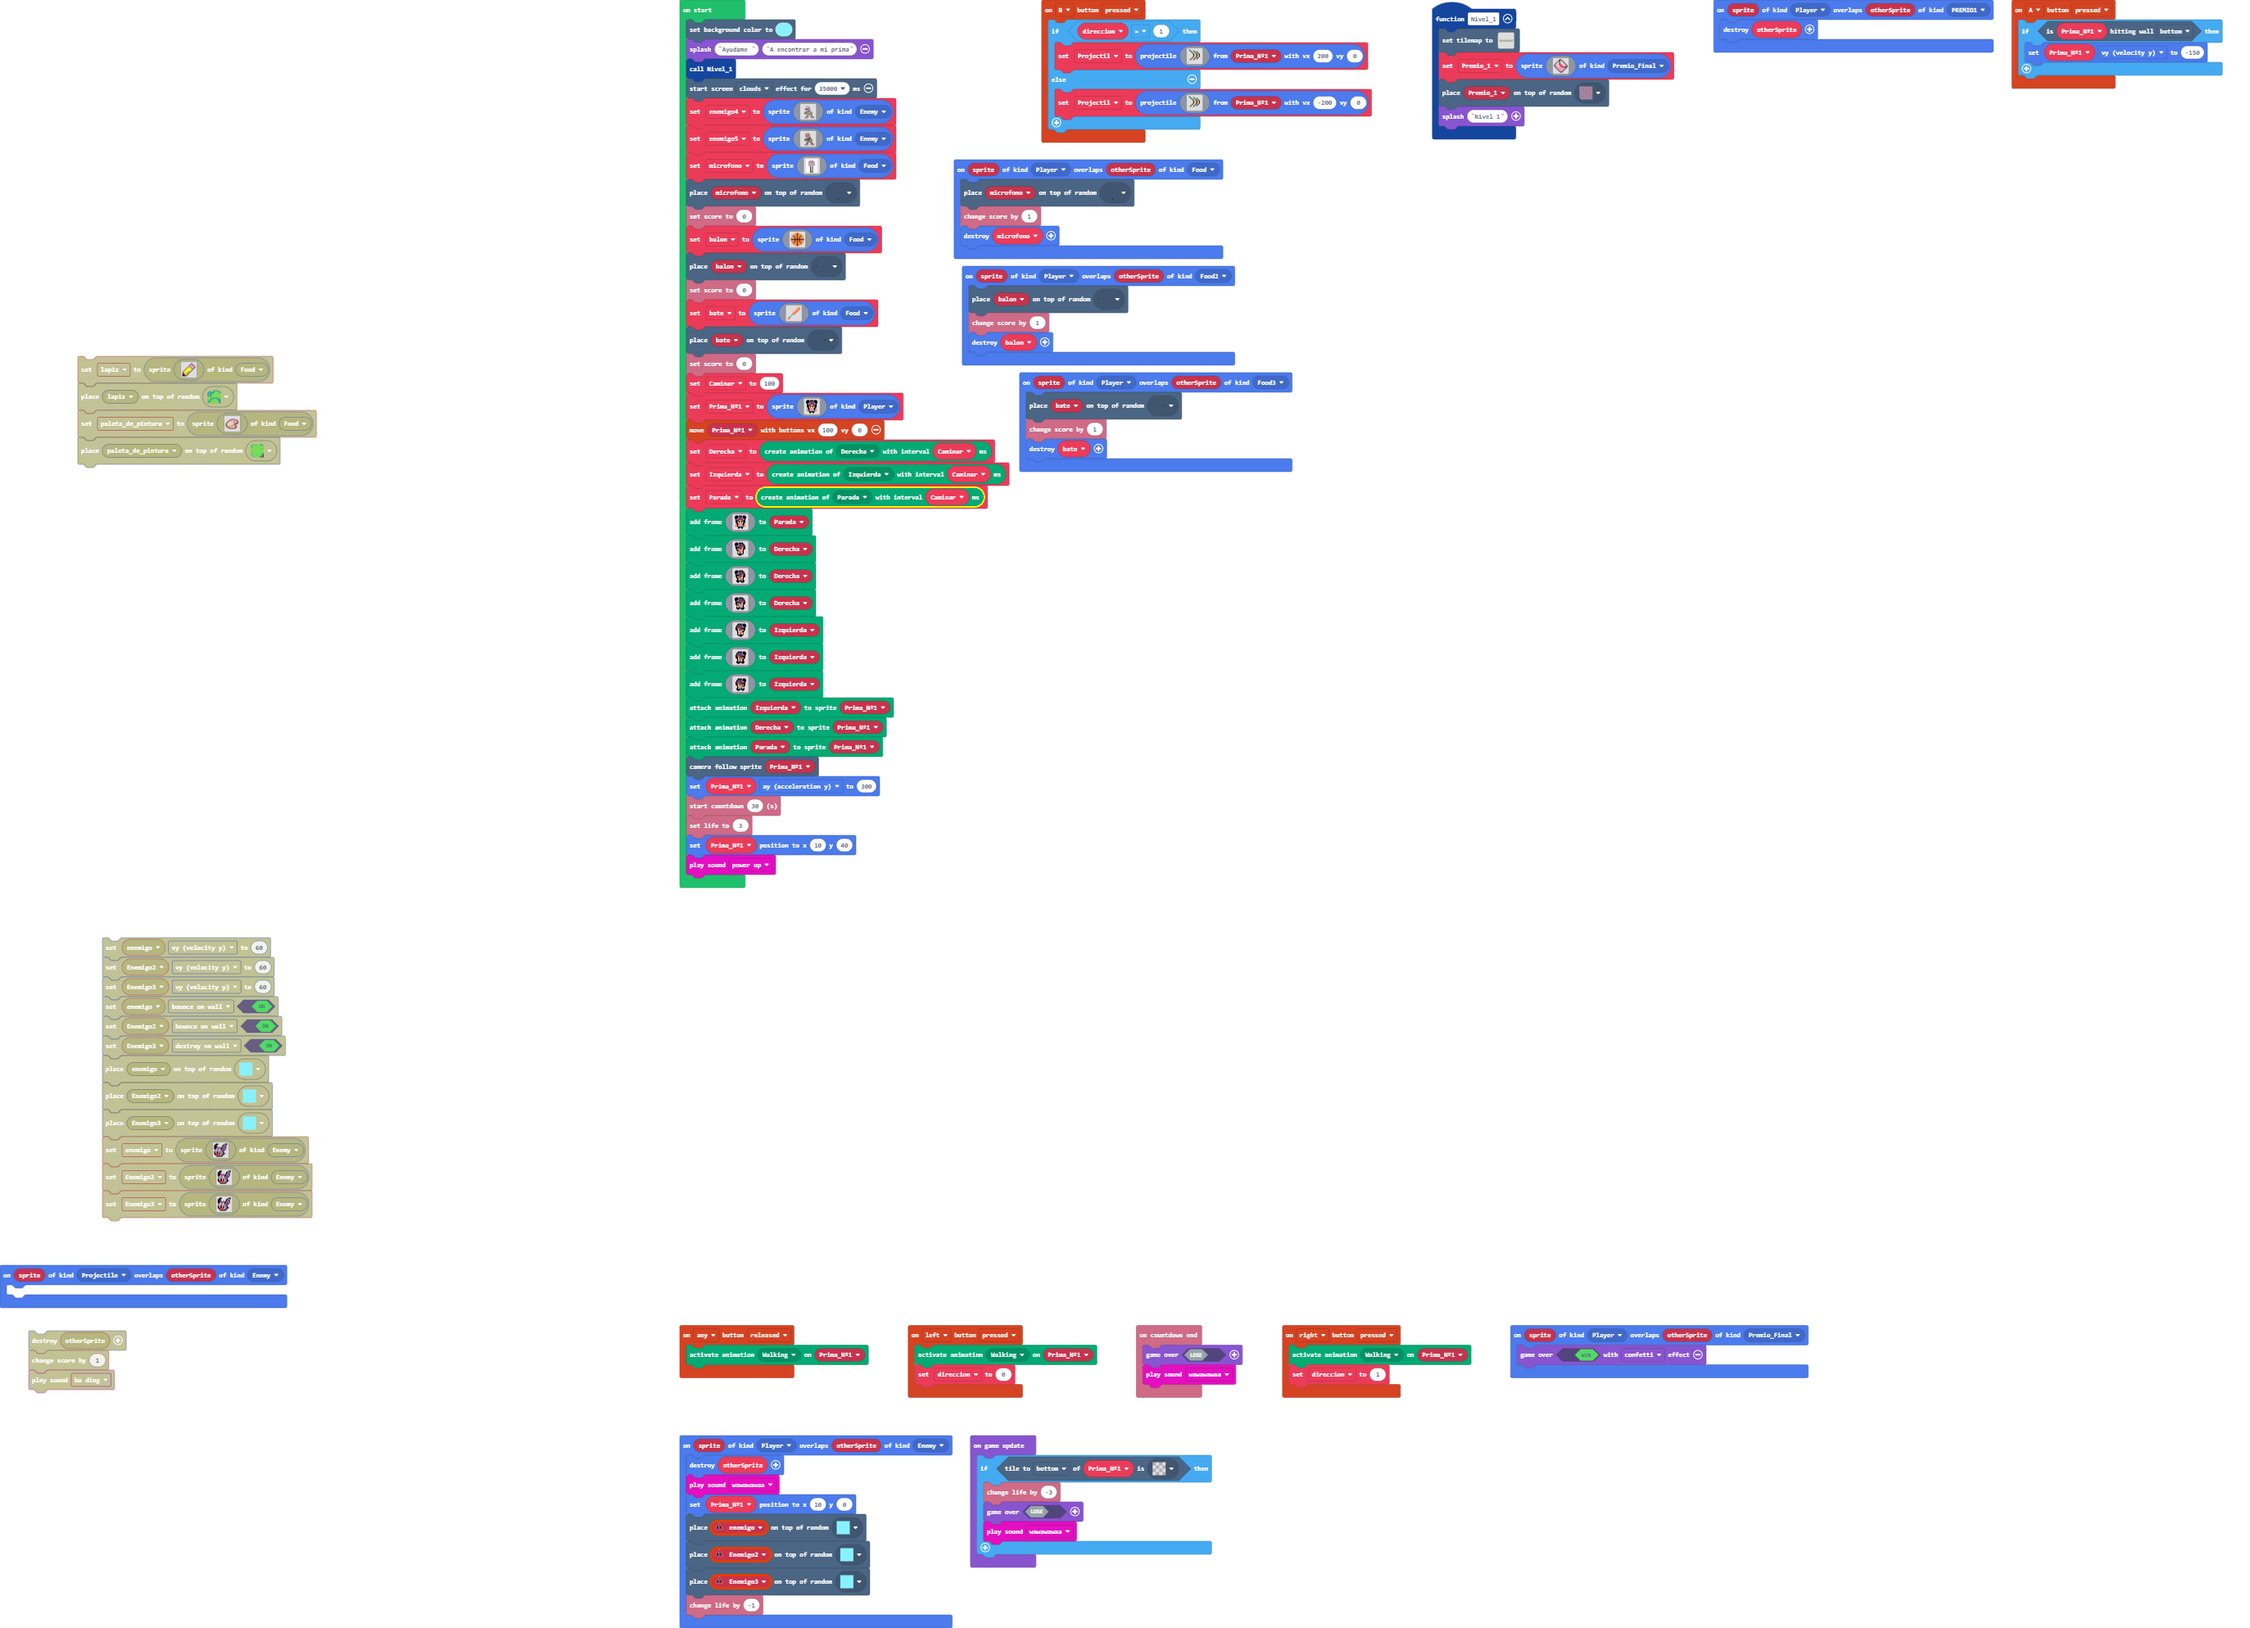
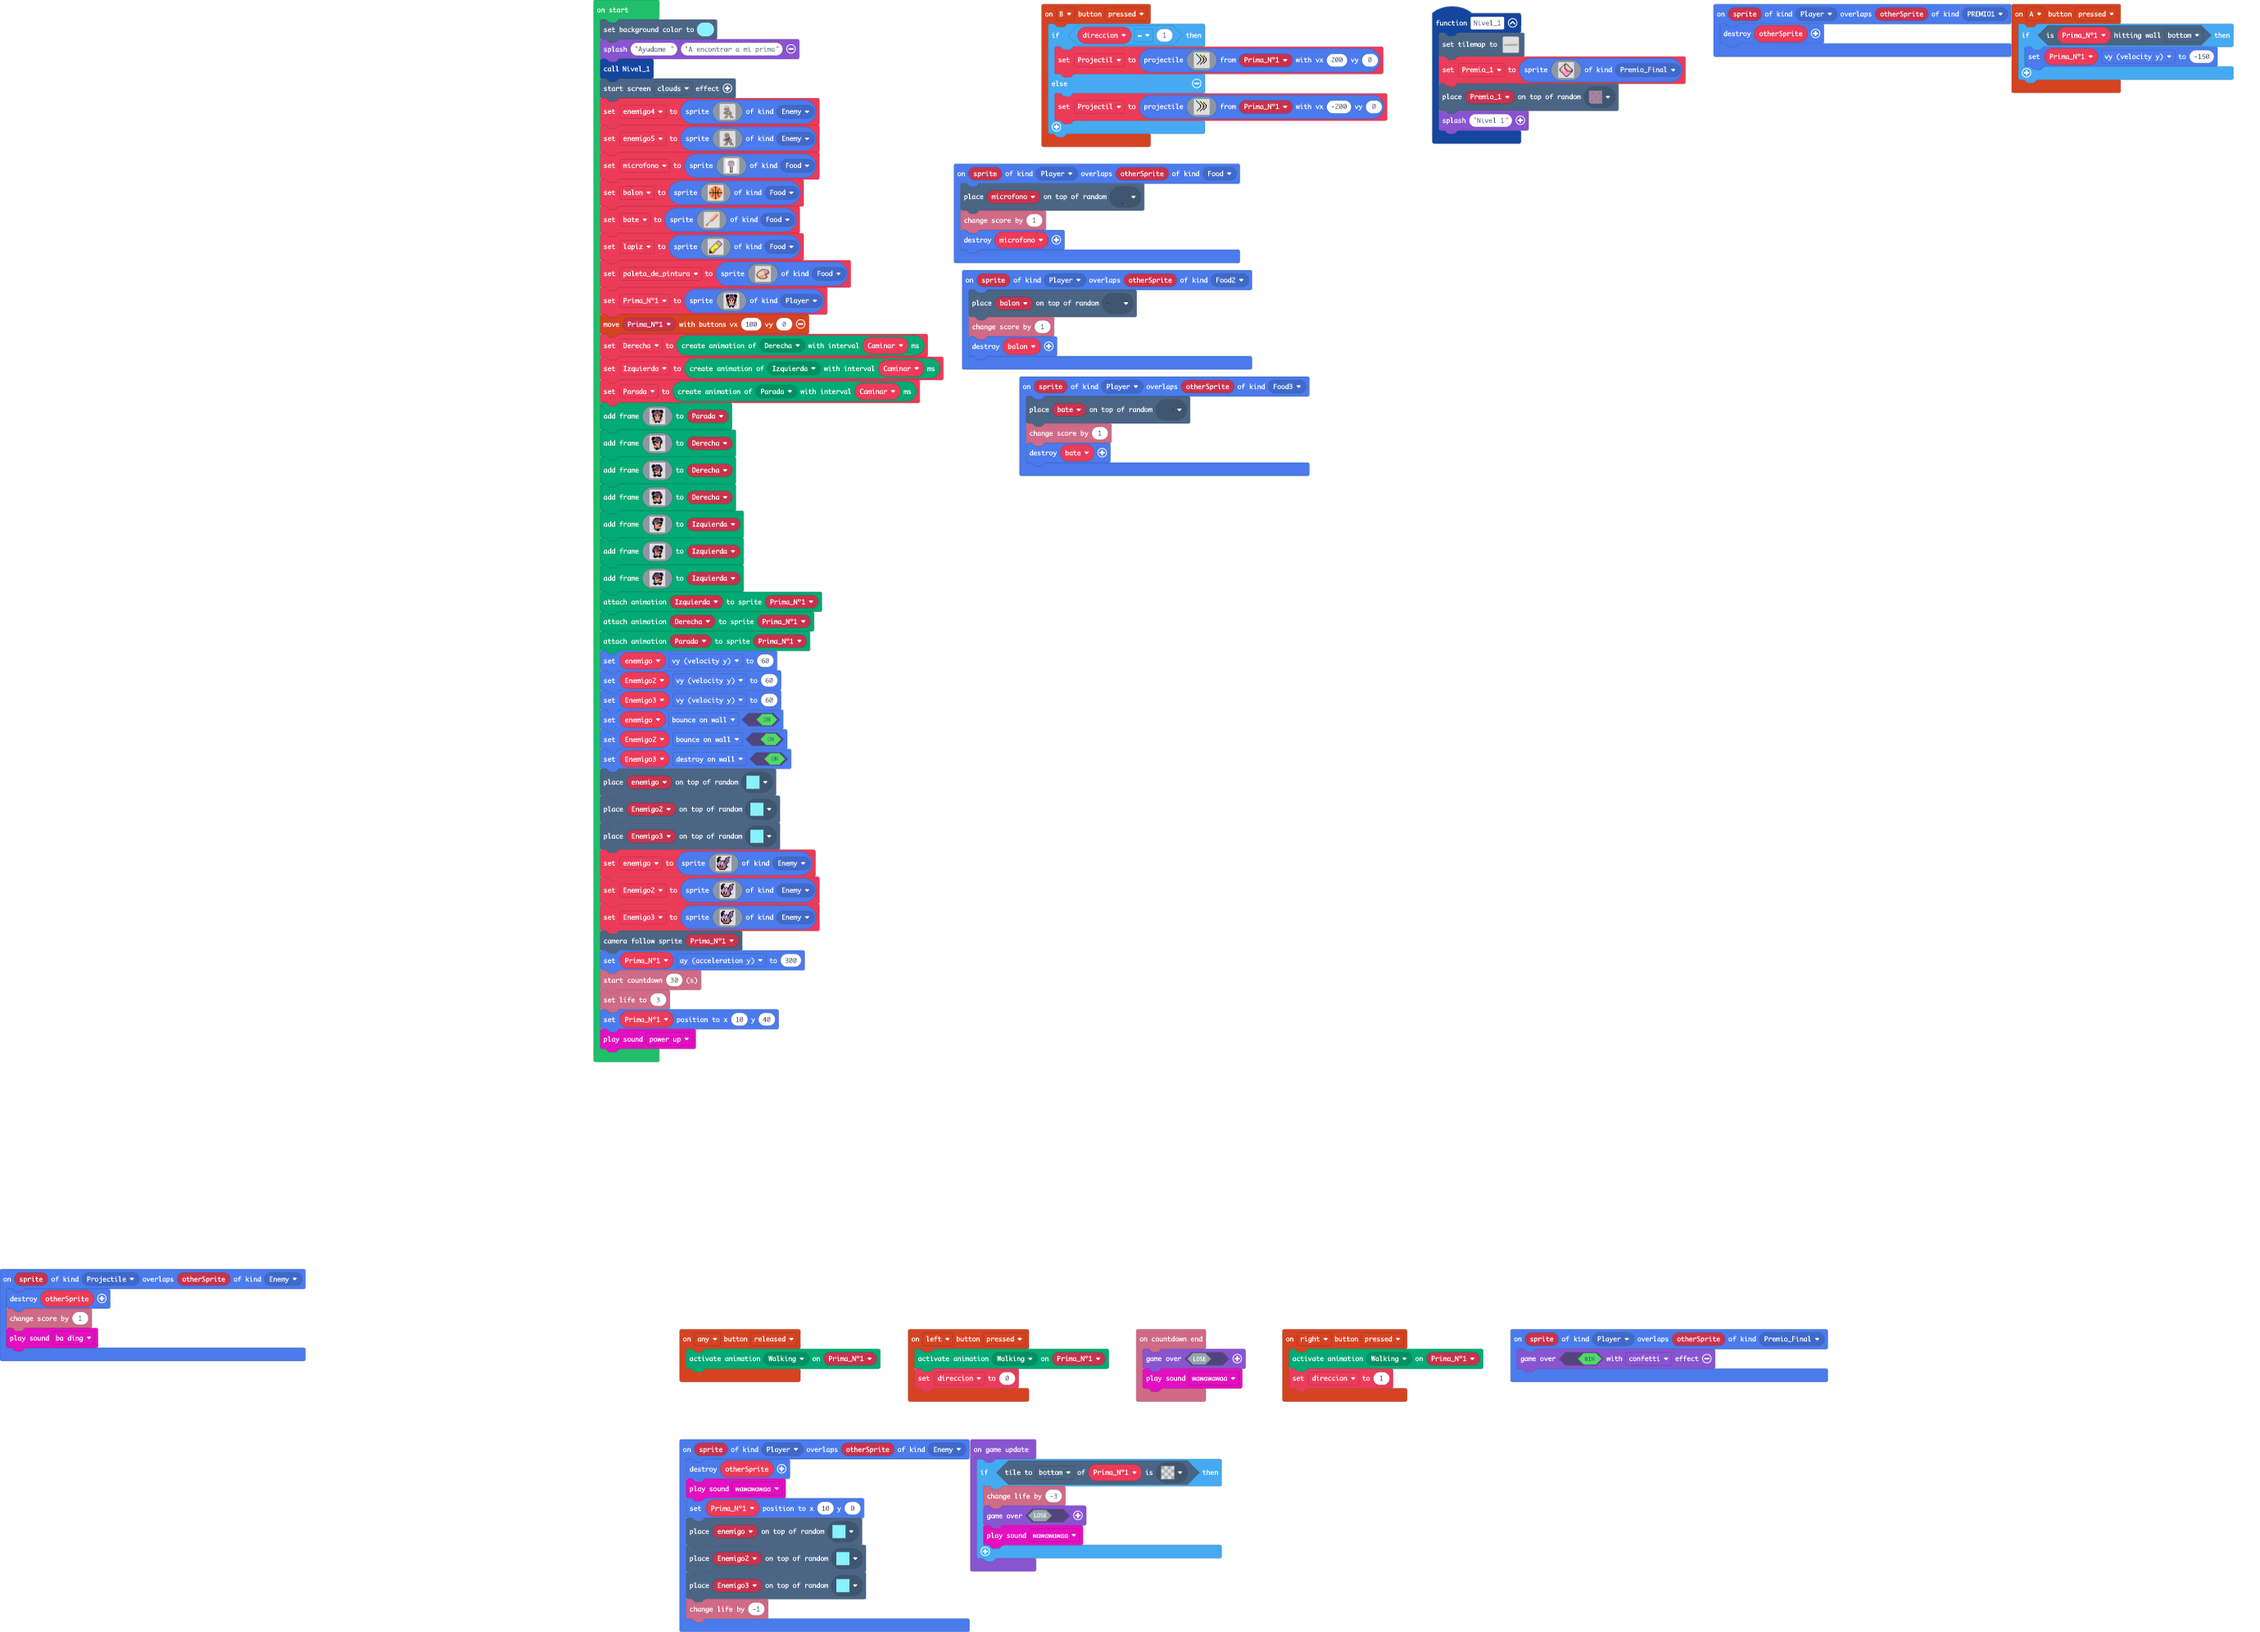
Update main.blocks, main.ts

diff --git a/main.ts b/main.ts
@@ -134,12 +134,11 @@ sprites.onOverlap(SpriteKind.Player, SpriteKind.Food2, function (sprite, otherSp
     balon.destroy()
 })
 sprites.onOverlap(SpriteKind.Projectile, SpriteKind.Enemy, function (sprite, otherSprite) {
-	
+    otherSprite.destroy()
+    info.changeScoreBy(1)
+    music.baDing.play()
 })
 sprites.onOverlap(SpriteKind.Player, SpriteKind.Enemy, function (sprite, otherSprite) {
-    let Enemigo3: Sprite = null
-    let Enemigo2: Sprite = null
-    let enemigo: Sprite = null
     otherSprite.destroy()
     music.wawawawaa.play()
     Prima_Nº1.setPosition(10, 0)
@@ -151,6 +150,10 @@ sprites.onOverlap(SpriteKind.Player, SpriteKind.Enemy, function (sprite, otherSp
 let Premio_1: Sprite = null
 let Projectil: Sprite = null
 let direccion = 0
+let Enemigo3: Sprite = null
+let Enemigo2: Sprite = null
+let enemigo: Sprite = null
+let Caminar = 0
 let Prima_Nº1: Sprite = null
 let bate: Sprite = null
 let balon: Sprite = null
@@ -158,7 +161,7 @@ let microfono: Sprite = null
 scene.setBackgroundColor(9)
 game.splash("Ayudame ", "A encontrar a mi prima")
 Nivel_1()
-effects.clouds.startScreenEffect(35000)
+effects.clouds.startScreenEffect()
 let enemigo4 = sprites.create(img`
     . . . . . . . . . . . . . . . . . . . . . . . . . . . . . . . . . . . . . . . . . . . . . . 
     . . . . . . . . . . . . . . . . . . . . . . . . . . . . . . . . . . . . . . . . . . . . . . 
@@ -278,8 +281,6 @@ microfono = sprites.create(img`
     1 1 1 1 1 1 f d d f 1 1 1 1 1 1 
     1 1 1 1 1 1 f f f f 1 1 1 1 1 1 
     `, SpriteKind.Food)
-tiles.placeOnRandomTile(microfono, myTiles.tile9)
-info.setScore(0)
 balon = sprites.create(img`
     . . . . . . 4 4 f 4 4 . . . . . . 
     . . . . 4 4 4 4 f 4 4 4 4 . . . . 
@@ -299,8 +300,6 @@ balon = sprites.create(img`
     . . . . 4 4 4 4 f 4 4 4 4 . . . . 
     . . . . . . 4 4 f 4 4 . . . . . . 
     `, SpriteKind.Food)
-tiles.placeOnRandomTile(balon, myTiles.tile12)
-info.setScore(0)
 bate = sprites.create(img`
     . . . . . . . . . . . . . . . . . 4 4 . . 
     . . . . . . . . . . . . . . . . 4 d d 4 . 
@@ -324,9 +323,52 @@ bate = sprites.create(img`
     . 4 2 . . . . . . . . . . . . . . . . . . 
     . . 2 . . . . . . . . . . . . . . . . . . 
     `, SpriteKind.Food)
-tiles.placeOnRandomTile(bate, myTiles.tile13)
-info.setScore(0)
-let Caminar = 100
+let lapiz = sprites.create(img`
+    . . . . . . . . . . . . . . . f . . . . . . 
+    . . . . . . . . . . . . . . f 3 f . . . . . 
+    . . . . . . . . . . . . . f 3 3 3 f . . . . 
+    . . . . . . . . . . . . f 3 3 3 3 3 f . . . 
+    . . . . . . . . . . . f 1 b 3 3 3 3 3 f . . 
+    . . . . . . . . . . f 5 f 1 b 3 3 3 3 3 f . 
+    . . . . . . . . . f 5 5 5 f 1 b 3 3 3 3 3 f 
+    . . . . . . . . f d 5 5 5 5 f 1 b 3 3 3 f . 
+    . . . . . . . f d 5 5 5 5 5 5 f 1 b 3 f . . 
+    . . . . . . f 5 5 5 5 5 5 5 5 5 f 1 f . . . 
+    . . . . . f 5 5 5 5 5 5 5 5 5 5 d f . . . . 
+    . . . . f 5 5 5 5 5 5 5 5 5 5 d f . . . . . 
+    . . . f d 5 5 5 5 5 5 5 5 5 5 f . . . . . . 
+    . . f d 5 5 5 5 5 5 5 5 5 d f . . . . . . . 
+    . f d 5 5 5 5 5 5 5 f 5 d f . . . . . . . . 
+    f 4 4 5 5 5 5 5 5 f 5 d f . . . . . . . . . 
+    f 4 4 4 5 5 5 5 f 5 d f . . . . . . . . . . 
+    f f 4 4 4 5 5 f 5 d f . . . . . . . . . . . 
+    f f f 4 4 4 5 5 d f . . . . . . . . . . . . 
+    f f f f 4 4 4 d f . . . . . . . . . . . . . 
+    f f f f f 4 4 f . . . . . . . . . . . . . . 
+    f f f f f f f . . . . . . . . . . . . . . . 
+    `, SpriteKind.Food)
+let paleta_de_pintura = sprites.create(img`
+    . . . . . . . . . . . . . . . . . . . . . . . . . 
+    . . . . . . . . . . . e e e e e e e . . . . . . . 
+    . . . . . . . . e e e e e e e e e e e e e . . . . 
+    . . . . . . . e e e e d d d d d d d d e e e e . . 
+    . . . . . e e e e e d d 3 3 d d d d d d e e e e . 
+    . . . . e e e e d d d 3 3 3 d d a a d d d e e e . 
+    . . . e e e d d d d d 3 3 d d a a a d d d d e e e 
+    . . e e e d d 5 5 d d d d d d a a d d d d e e e e 
+    . e e e d d 5 5 5 d d d d d d d d d d e e e e e e 
+    . e e d d d 5 5 d d d d d d d d d e e e e e e e . 
+    e e e d d d d d d d d d d d d e e e e e e e e . . 
+    e e e d d 9 9 d d d d d d d d e e e e e e . . . . 
+    e e e d 9 9 9 d d d d d d d d d e e . . . . . . . 
+    e e e d 9 9 d d 4 4 d d 2 2 d d d e e e . . . . . 
+    . e e e d d d 4 4 4 d 2 2 2 d d d e e e e . . . . 
+    . e e e e d d 4 4 d d 2 2 d d d d d e e e e . . . 
+    . . e e e e e d d d d d d d d d d d e e e e . . . 
+    . . . e e e e e e d d d d d d d d e e e e . . . . 
+    . . . . . e e e e e e e e e e e e e e e . . . . . 
+    . . . . . . . . e e e e e e e e e e . . . . . . . 
+    `, SpriteKind.Food)
 Prima_Nº1 = sprites.create(img`
     . f f f . f f f f . f f f . 
     f f f f f c c c c f f f f f 
@@ -478,6 +520,69 @@ Izquierda.addAnimationFrame(img`
 animation.attachAnimation(Prima_Nº1, Izquierda)
 animation.attachAnimation(Prima_Nº1, Derecha)
 animation.attachAnimation(Prima_Nº1, Parada)
+enemigo.vy = 60
+Enemigo2.vy = 60
+Enemigo3.vy = 60
+enemigo.setFlag(SpriteFlag.BounceOnWall, true)
+Enemigo2.setFlag(SpriteFlag.BounceOnWall, true)
+Enemigo3.setFlag(SpriteFlag.DestroyOnWall, true)
+tiles.placeOnRandomTile(enemigo, myTiles.tile7)
+tiles.placeOnRandomTile(Enemigo2, myTiles.tile7)
+tiles.placeOnRandomTile(Enemigo3, myTiles.tile7)
+enemigo = sprites.create(img`
+    . . f f f . . . . . . . . f f f 
+    . f f c c . . . . . . f c b b c 
+    f f c c . . . . . . f c b b c . 
+    f c f c . . . . . . f b c c c . 
+    f f f c c . c c . f c b b c c . 
+    f f c 3 c c 3 c c f b c b b c . 
+    f f b 3 b c 3 b c f b c c b c . 
+    . c 1 b b b 1 b c b b c c c . . 
+    . c 1 b b b 1 b b c c c c . . . 
+    c b b b b b b b b b c c . . . . 
+    c b 1 f f 1 c b b b b f . . . . 
+    f f 1 f f 1 f b b b b f c . . . 
+    f f 2 2 2 2 f b b b b f c c . . 
+    . f 2 2 2 2 b b b b c f . . . . 
+    . . f b b b b b b c f . . . . . 
+    . . . f f f f f f f . . . . . . 
+    `, SpriteKind.Enemy)
+Enemigo2 = sprites.create(img`
+    . . f f f . . . . . . . . f f f 
+    . f f c c . . . . . . f c b b c 
+    f f c c . . . . . . f c b b c . 
+    f c f c . . . . . . f b c c c . 
+    f f f c c . c c . f c b b c c . 
+    f f c 3 c c 3 c c f b c b b c . 
+    f f b 3 b c 3 b c f b c c b c . 
+    . c 1 b b b 1 b c b b c c c . . 
+    . c 1 b b b 1 b b c c c c . . . 
+    c b b b b b b b b b c c . . . . 
+    c b 1 f f 1 c b b b b f . . . . 
+    f f 1 f f 1 f b b b b f c . . . 
+    f f 2 2 2 2 f b b b b f c c . . 
+    . f 2 2 2 2 b b b b c f . . . . 
+    . . f b b b b b b c f . . . . . 
+    . . . f f f f f f f . . . . . . 
+    `, SpriteKind.Enemy)
+Enemigo3 = sprites.create(img`
+    . . f f f . . . . . . . . f f f 
+    . f f c c . . . . . . f c b b c 
+    f f c c . . . . . . f c b b c . 
+    f c f c . . . . . . f b c c c . 
+    f f f c c . c c . f c b b c c . 
+    f f c 3 c c 3 c c f b c b b c . 
+    f f b 3 b c 3 b c f b c c b c . 
+    . c 1 b b b 1 b c b b c c c . . 
+    . c 1 b b b 1 b b c c c c . . . 
+    c b b b b b b b b b c c . . . . 
+    c b 1 f f 1 c b b b b f . . . . 
+    f f 1 f f 1 f b b b b f c . . . 
+    f f 2 2 2 2 f b b b b f c c . . 
+    . f 2 2 2 2 b b b b c f . . . . 
+    . . f b b b b b b c f . . . . . 
+    . . . f f f f f f f . . . . . . 
+    `, SpriteKind.Enemy)
 scene.cameraFollowSprite(Prima_Nº1)
 Prima_Nº1.ay = 300
 info.startCountdown(30)
